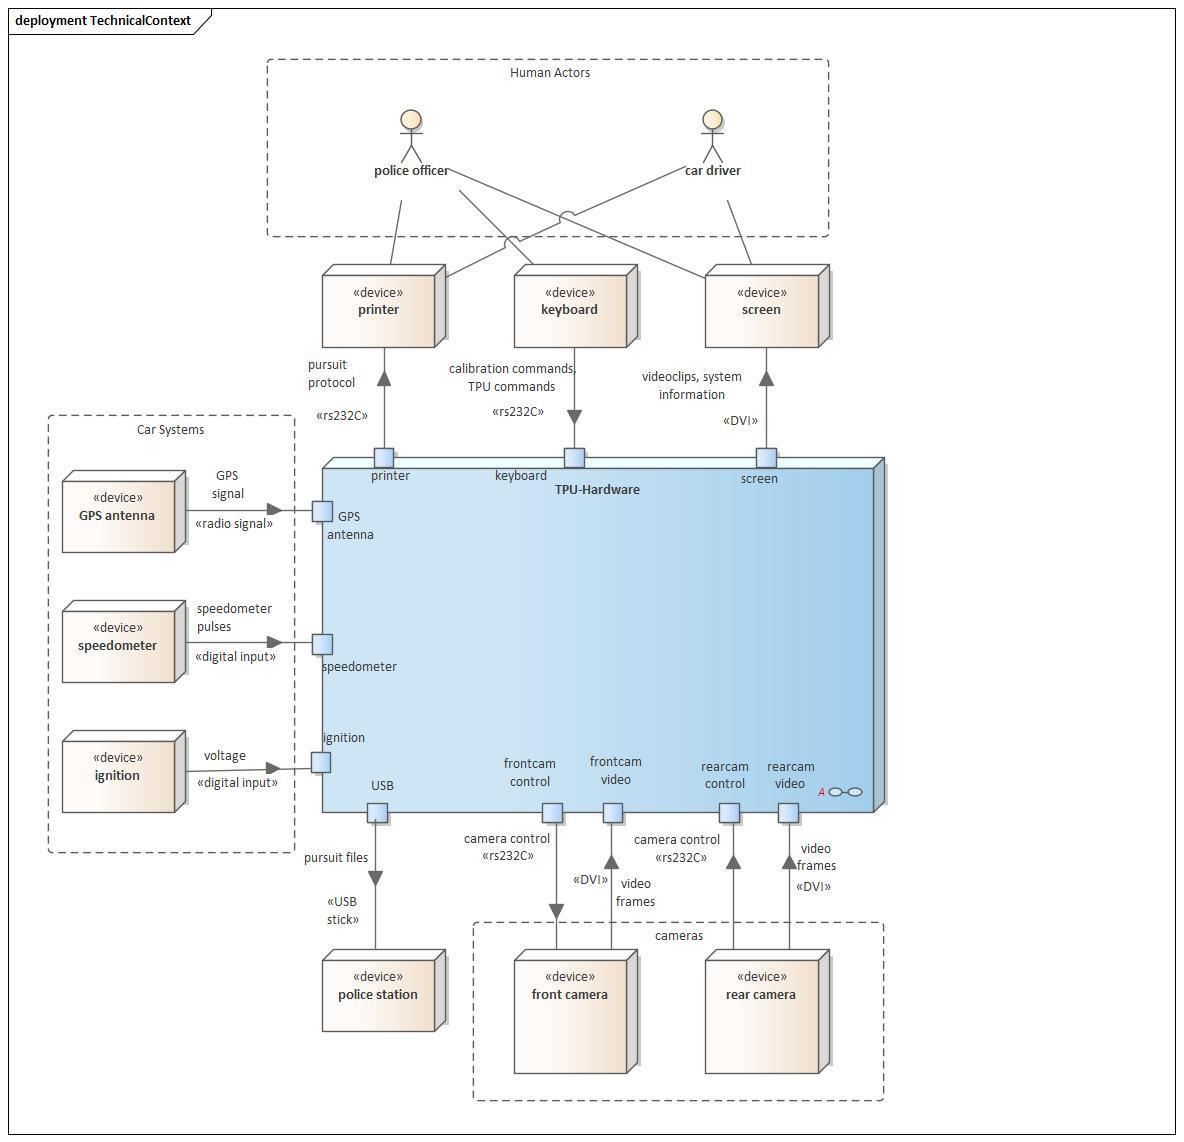
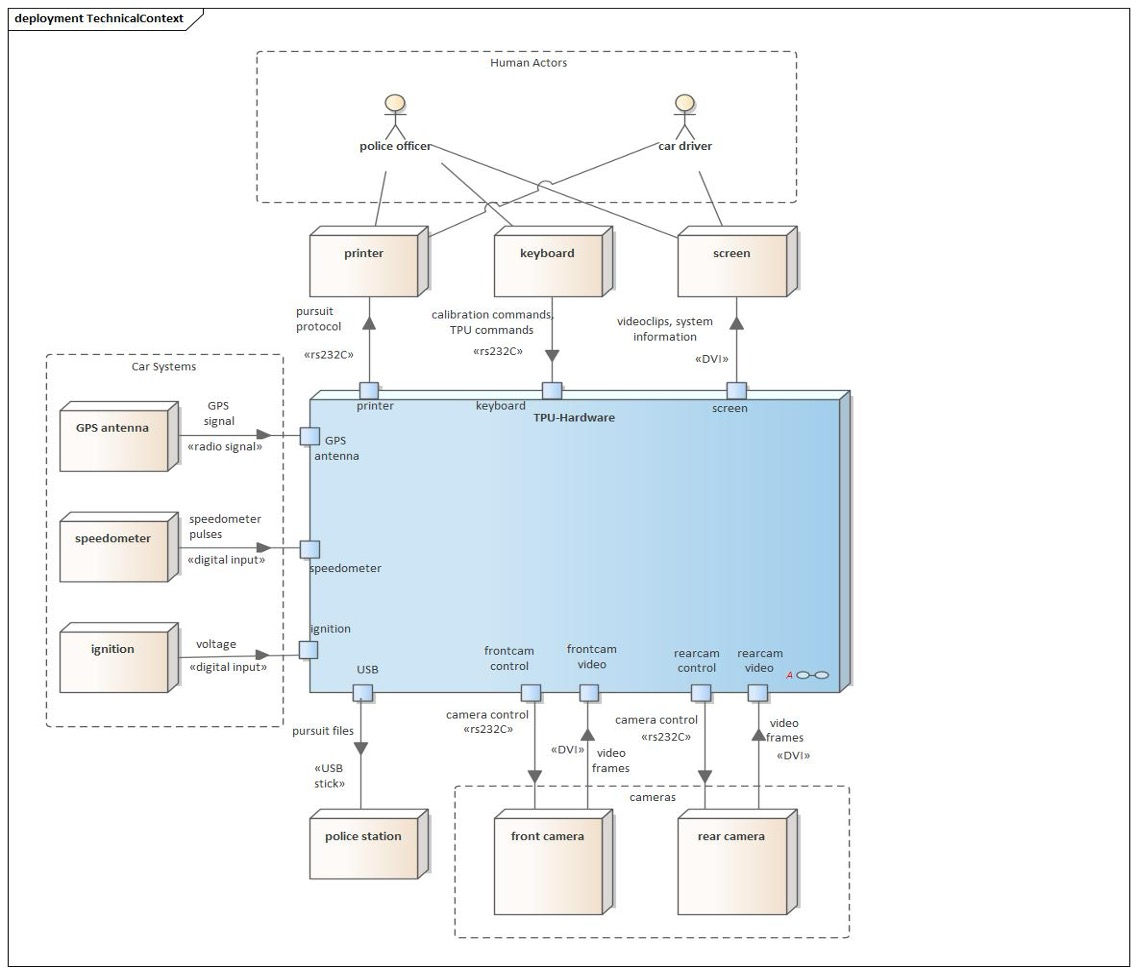
fix: rearcam control arrow in TPU technical context diagram
The rearcam control interface now points out to the rear camera device,
matching the frontcam control interface. Corrected diagram supplied by
the TPU authors. See arc42/docs.arc42.org-site#87.

diff --git a/_systems/tpu/_todo/todo-tpu-images.md b/_systems/tpu/_todo/todo-tpu-images.md
@@ -33,7 +33,7 @@ rendered figures, republished on the same terms.
 | 1 | Fig. 1: TPU Use Cases | `01-use-cases.jpg` | 01 | 4 | 997 × 1196 | UML use case |
 | 2 | Fig. 3.1: TPU Business Context | `03_1-business-context.jpg` | 03 | 7 | 1192 × 838 | context diagram |
 | 3 | Fig. 3.2: TPU The Complete Device | `03_2-complete-device.jpg` | 03 | 8 | 1600 × 1200 | **photo**, downscaled from 3648 × 2736 |
-| 4 | Fig. 3.3: TPU Technical Context | `03_3-technical-context.jpg` | 03 | 9 | 1184 × 1142 | context diagram |
+| 4 | Fig. 3.3: TPU Technical Context | `03_3-technical-context.jpg` | 03 | 9 | 1138 × 974 | context diagram — corrected by the authors (rearcam control arrow), docs.arc42.org-site issue #87 |
 | 5 | Fig. 5.1: TPU Level 1: White Box TPU | `05_1-whitebox-tpu.jpg` | 05 | 11 | 1147 × 879 | building blocks |
 | 6 | Fig. 5.2: White Box Measuring Unit | `05_2-whitebox-measuring-unit.jpg` | 05 | 13 | 1155 × 1016 | building blocks |
 | 7 | Fig. 5.3: White Box Video Unit | `05_3-whitebox-video-unit.jpg` | 05 | 15 | 1427 × 1070 | building blocks |
